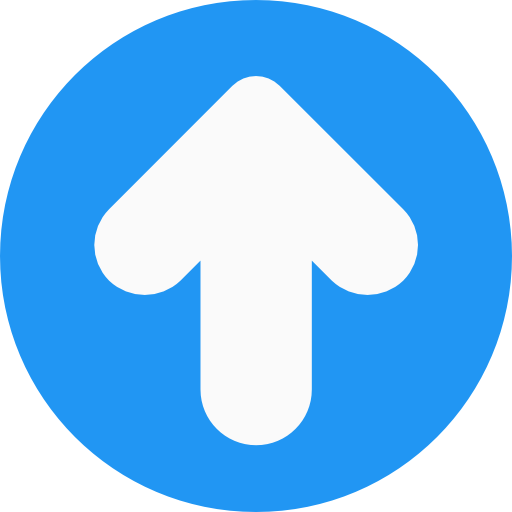
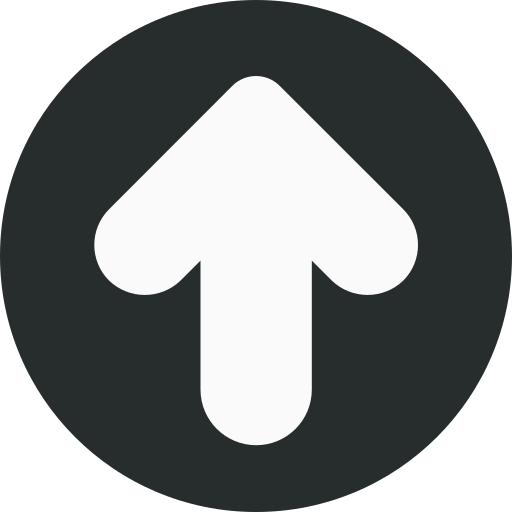
added fonts and colors

diff --git a/app/assets/stylesheets/config/_fonts.scss b/app/assets/stylesheets/config/_fonts.scss
@@ -1,9 +1,14 @@
 // Import Google fonts
 @import url('https://fonts.googleapis.com/css?family=Nunito:400,700|Work+Sans:400,700&display=swap');
+@import url('https://fonts.googleapis.com/css2?family=Rubik:ital,wght@0,400;0,500;1,500&family=Space+Grotesk:wght@400;600;700&family=Space+Mono:ital,wght@0,400;0,700;1,400;1,700&display=swap');
 
 // Define fonts for body and headers
 $body-font: "Work Sans", "Helvetica", "sans-serif";
-$headers-font: "Nunito", "Helvetica", "sans-serif";
+$headers-font: 'Space Mono', 'monospace';
+
+h1, .h1 {
+  font-size: 2.3rem !important;
+}
 
 // To use a font file (.woff) uncomment following lines
 // @font-face {

diff --git a/app/assets/stylesheets/components/_index.scss b/app/assets/stylesheets/components/_index.scss
@@ -6,22 +6,5 @@
 @import "vote";
 @import "btn";
 @import "links";
-
-
-html,body
-{
-    width: 100%;
-    margin: 0px;
-    padding: 0px;
-    overflow-x: hidden; 
-}
-
-// html {
-//   min-width: 100%;
-//   min-height: 100%;
-// }
-
-// body {
-//   height: 1054px;
-//   background-color: #FFF;
-// }
+@import "headers";
+@import "body";

diff --git a/app/assets/stylesheets/config/_colors.scss b/app/assets/stylesheets/config/_colors.scss
@@ -8,3 +8,8 @@ $orange: #E67E22;
 $green: #1EDD88;
 $gray: #0E0000;
 $light-gray: #F4F4F4;
+
+$light-sea-green: #17C3B2;
+$charleston-green: #272D2D;
+$melon: #fcbfb7;
+$naples-yellow: #ffe066;

diff --git a/app/assets/stylesheets/config/_bootstrap_variables.scss b/app/assets/stylesheets/config/_bootstrap_variables.scss
@@ -11,7 +11,7 @@ $font-size-base: 1rem;
 
 // Colors
 $body-color: $gray;
-$primary:    $blue;
+$primary:    $light-sea-green;
 $success:    $green;
 $info:       $yellow;
 $danger:     $red;

diff --git a/app/assets/stylesheets/components/_body.scss b/app/assets/stylesheets/components/_body.scss
@@ -1,0 +1,7 @@
+html,body
+{
+    width: 100%;
+    margin: 0px;
+    padding: 0px;
+    overflow-x: hidden; 
+}

diff --git a/app/assets/stylesheets/components/_headers.scss b/app/assets/stylesheets/components/_headers.scss
@@ -1,0 +1,3 @@
+.header-name {
+  color: purple !important;
+}

diff --git a/app/controllers/places_controller.rb b/app/controllers/places_controller.rb
@@ -1,9 +1,8 @@
 class PlacesController < ApplicationController
   skip_before_action :verify_authenticity_token
-  
+
   def index
     @places = Place.all
-
     @markers = @places.geocoded.map do |place|
       {
         lat: place.latitude,
@@ -13,7 +12,7 @@ class PlacesController < ApplicationController
         image_url: helpers.asset_url('location.png')
       }
     end
-    @place = Place.new
+    # @place = Place.new
   end
 
   def show
